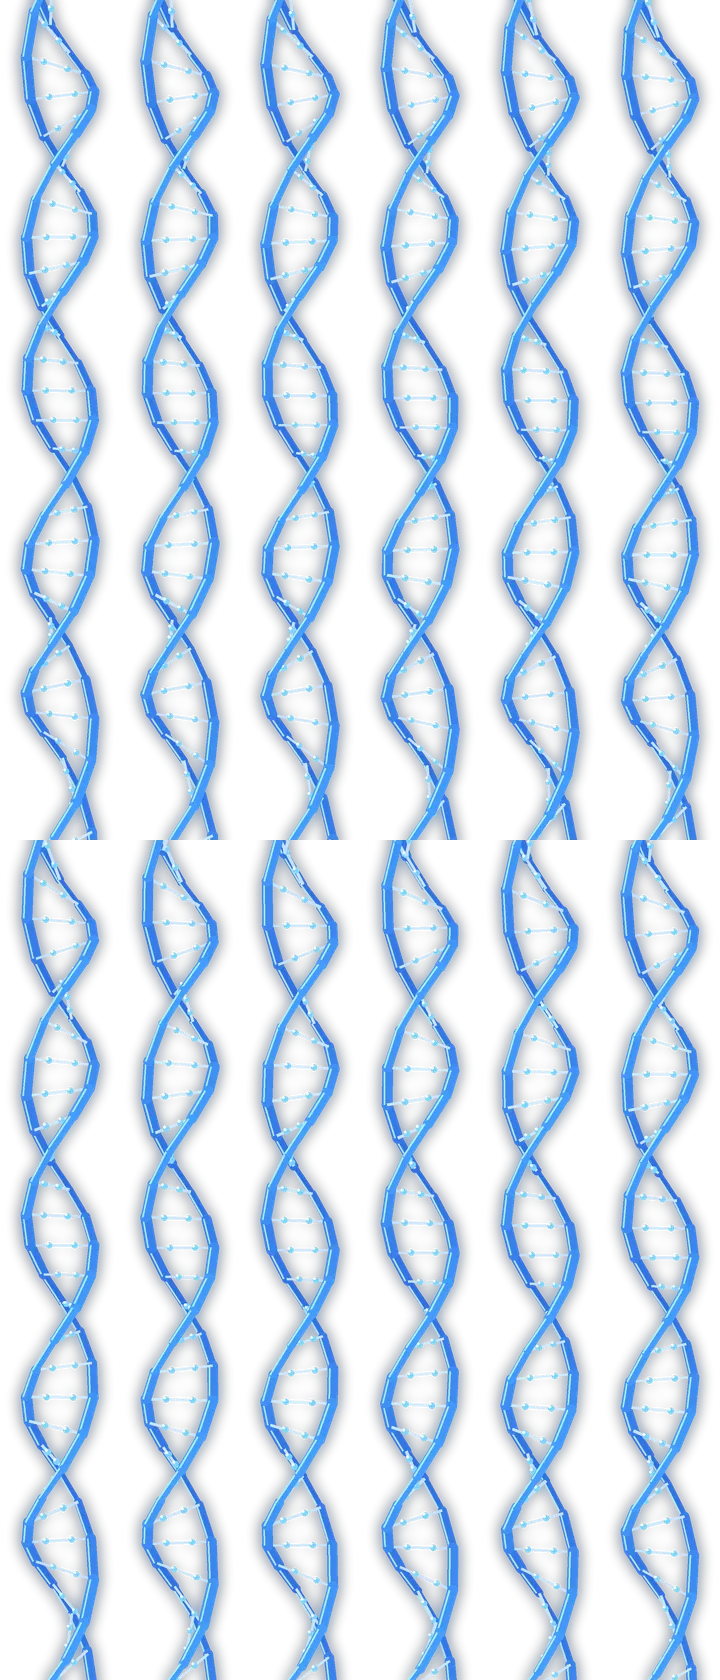
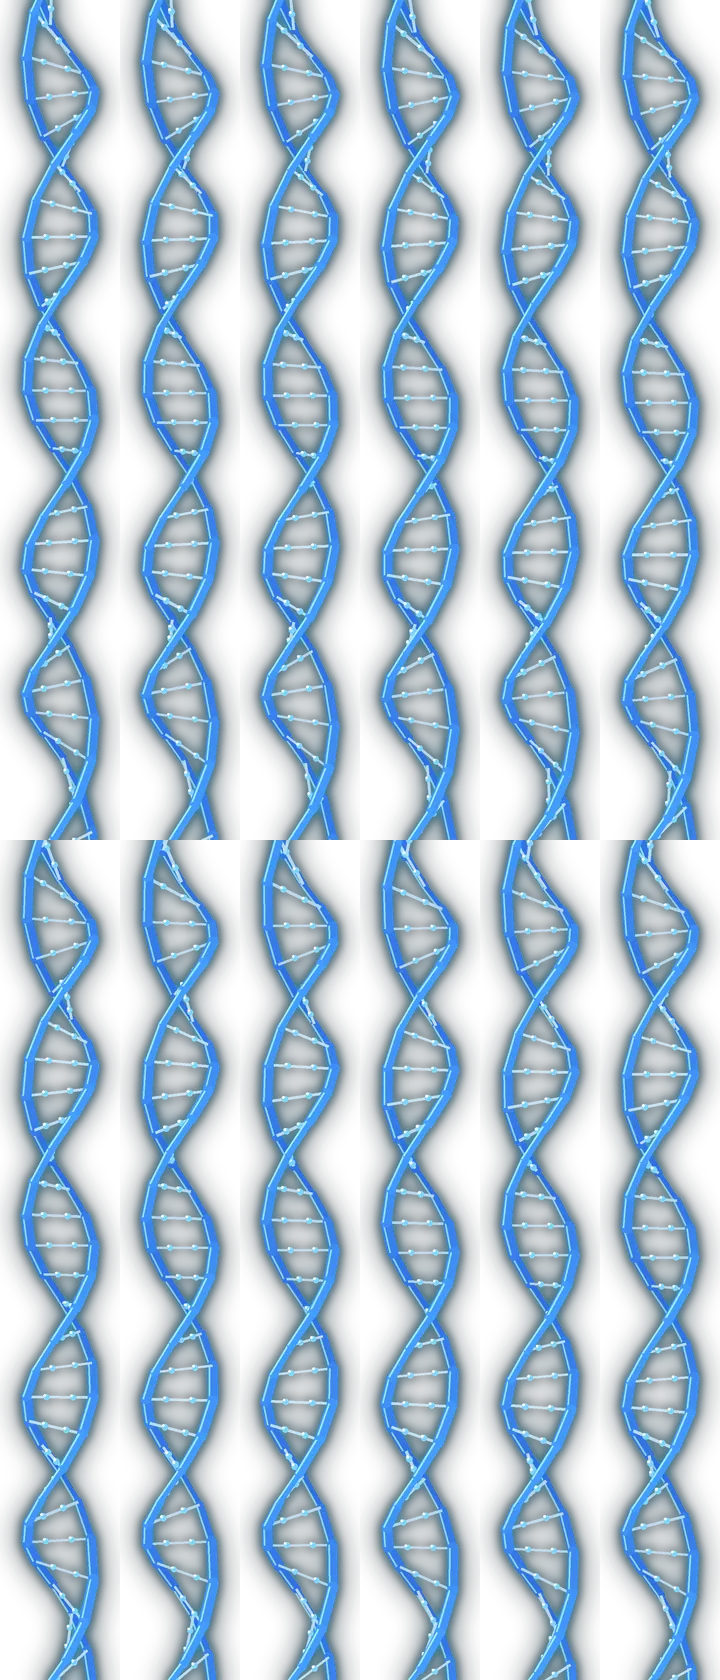
feat(health-id): glowing rotating DNA strand

diff --git a/components/health-id/PresentationMode.tsx b/components/health-id/PresentationMode.tsx
@@ -106,7 +106,7 @@ export function PresentationMode({
         />
         <View pointerEvents="none" style={StyleSheet.absoluteFill} {...DECORATIVE}>
           <Art source={HEALTH_ID_ART.circuitField} style={FILL} resizeMode="cover" opacity={0.36} />
-          <RotatingDna style={styles.bgHelix} opacity={0.4} active={live} />
+          <RotatingDna style={styles.bgHelix} opacity={0.5} active={live} />
           <Art source={HEALTH_ID_ART.holoWave} style={styles.bgWave} resizeMode="cover" opacity={0.42} />
         </View>
 

diff --git a/components/health-id/SecureCredentialCard.tsx b/components/health-id/SecureCredentialCard.tsx
@@ -157,7 +157,7 @@ export function SecureCredentialCard({
             high={0.85}
             duration={presentation ? 1700 : 3600}
           />
-          <RotatingDna style={styles.dnaHelix} opacity={0.9} />
+          <RotatingDna style={styles.dnaHelix} opacity={1} />
           <Art source={HEALTH_ID_ART.dnaMicrodata} style={styles.dnaMicro} resizeMode="cover" opacity={0.55} />
         </View>
         <CornerBrackets color={colors.primarySoft} active={presentation} size={20} inset={8} radius={10} />
